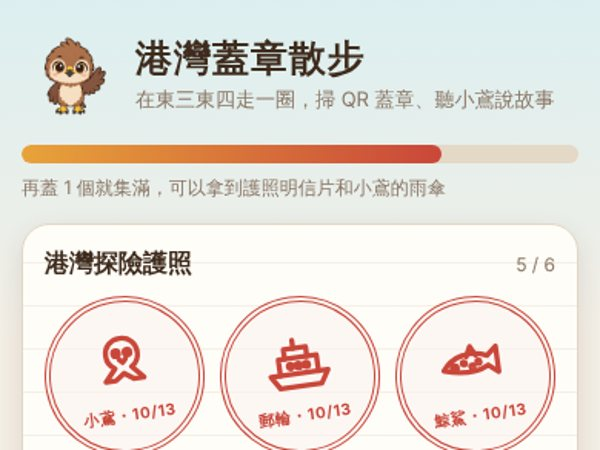
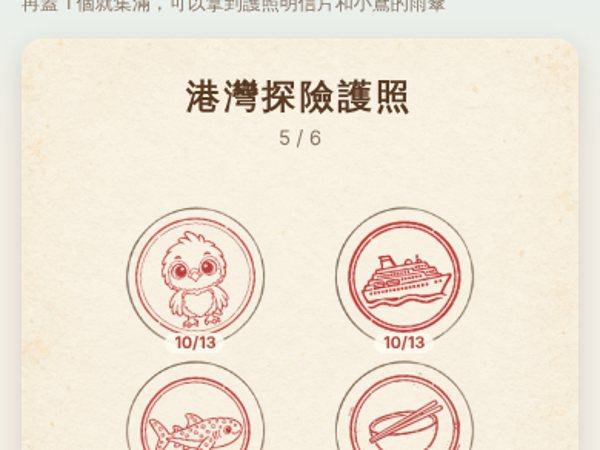
港灣蓋章散步 v0.2：換上 G-49 六個章與護照頁（照圓框 JSON 對位）；測試首頁 v24 (#49)
Claude-Session: https://claude.ai/code/session_01HH7aCh2DkeBgrqbKrCUAfc

diff --git a/stamp/index.html b/stamp/index.html
@@ -22,6 +22,18 @@ header p{margin:2px 0 0;font-size:13px;color:var(--muted)}
 .book h2{margin:0 0 10px;font-size:16px;display:flex;justify-content:space-between;align-items:baseline}
 .book h2 small{font-size:12px;color:var(--muted);font-weight:400}
 .grid{display:grid;grid-template-columns:repeat(3,1fr);gap:10px}
+/* v0.2：護照頁換上 G-49 底圖（1080×1350），六個章照圓框位置 JSON 對位（2 欄 × 3 列） */
+.passport{position:relative;width:100%;aspect-ratio:1080/1350;background:url(assets/passport_page.jpg) center/100% 100%;border-radius:14px;box-shadow:0 6px 18px rgba(62,43,29,.15);overflow:hidden}
+.passport .ttl{position:absolute;left:0;right:0;top:5%;text-align:center}
+.passport .ttl b{display:block;font-size:22px;letter-spacing:.12em;color:#5A3A24}
+.passport .ttl span{font-size:13px;color:#8A7565}
+.pcell{position:absolute;transform:translate(-50%,-50%);border:0;background:none;padding:0;font:inherit;border-radius:50%;display:flex;flex-direction:column;align-items:center;justify-content:center;color:#A08A72}
+.pcell img{width:100%;height:100%;object-fit:contain;transform:rotate(-8deg);mix-blend-mode:multiply}
+.pcell .n{font-size:26px;font-weight:700;color:#C8B79F;line-height:1}
+.pcell small{font-size:11px;line-height:1.35;text-align:center;padding:0 12%;margin-top:4px}
+.pcell .dt{position:absolute;bottom:-4%;font-size:10.5px;font-weight:700;color:#B4483C;background:rgba(255,250,240,.85);border-radius:999px;padding:0 6px}
+.passport .foot{position:absolute;left:0;right:0;bottom:3.2%;text-align:center;font-size:12px;color:#8A7565}
+.big img{width:100%;height:100%;object-fit:contain;animation:slam .45s cubic-bezier(.3,1.6,.6,1) both}
 .cell{border:0;background:none;font:inherit;padding:0;display:flex;flex-direction:column;align-items:center;gap:4px;color:var(--ink)}
 .slot{width:100%;aspect-ratio:1;border-radius:50%;border:2.5px dashed #CDBDA6;display:flex;align-items:center;justify-content:center;position:relative;background:rgba(255,255,255,.5)}
 .slot .n{font-size:22px;font-weight:700;color:#CDBDA6}
@@ -68,9 +80,10 @@ summary{font-weight:700;font-size:14px;cursor:pointer}
     <div class="bar"><i id="prog" style="width:0"></i></div>
     <p class="note" id="progTxt" style="margin-top:6px"></p>
   </div>
-  <section class="book">
-    <h2>港灣探險護照 <small id="count"></small></h2>
-    <div class="grid" id="grid"></div>
+  <section class="passport" id="passport">
+    <div class="ttl"><b>港灣探險護照</b><span id="count"></span></div>
+    <div id="grid"></div>
+    <div class="foot">點蓋好的章，可以再聽一次小鳶的故事</div>
   </section>
   <div class="reward" id="reward" hidden></div>
   <a class="btn light" href="../travel/" id="toTravel">回小鳶的小屋</a>
@@ -82,7 +95,8 @@ summary{font-weight:700;font-size:14px;cursor:pointer}
 </div>
 <div class="ov" id="ov" hidden><div class="sheet" id="sheet"></div></div>
 <script>
-const CFG = { version: '0.1', key: 'kiteStamp1' };
+const CFG = { version: '0.2', key: 'kiteStamp1' };
+const FRAMES = [[31.2037, 34.1481], [68.7037, 34.1481], [31.2037, 56.2222], [68.7037, 56.1852], [31.1574, 78.2593], [68.7037, 78.2963]], FRAME_R = 12.45;      // G-49 護照頁圓框中心（%）與半徑（佔寬度 %）
 /* 6 個蓋章點（工作單 11 v4 第三節；實際位置待 Dari 現勘）。小鳶的話照 D42：4 到 7 歲小小孩的語氣 */
 const SPOTS = [
   { id: 1, name: '小鳶', hint: '旅客服務中心入口的小鳶', icon: 'kite', lines: ['我第一次飛來這裡的時候，好緊張喔！', '後來發現大家都好親切。', '歡迎你也來玩～'] },
@@ -106,11 +120,12 @@ let P = load();
 const save = () => { try { localStorage.setItem(CFG.key, JSON.stringify(P)); } catch (e) {} };
 const n = () => Object.keys(P.spots).length;
 const fmt = (ms) => { const d = new Date(ms); return (d.getMonth() + 1) + '/' + d.getDate(); };
+function stampImg(s) { return '<img src="assets/stamp_' + s.icon + '.png" alt="' + s.name + '章">'; }      // v0.2：G-49 正式章（暫用）
 function stampHTML(s, withDate) { return '<div class="stamp"><svg viewBox="0 0 24 24" fill="none" stroke="currentColor" stroke-width="1.6" stroke-linecap="round" stroke-linejoin="round">' + ICON[s.icon] + '</svg><span>' + s.name + (withDate && P.spots[s.id] ? '・' + fmt(P.spots[s.id]) : '') + '</span></div>'; }
 function render() {
   $('ver').textContent = 'v' + CFG.version;
-  $('grid').innerHTML = SPOTS.map((s) => { const done = !!P.spots[s.id]; return '<button class="cell" type="button" data-id="' + s.id + '"><span class="slot' + (done ? ' done' : '') + '">' + (done ? stampHTML(s, true) : '<span class="n">' + s.id + '</span>') + '</span><b>' + (done ? s.name : '還沒蓋') + '</b><small>' + (done ? '點一下再聽一次' : '在' + s.hint) + '</small></button>'; }).join('');
-  $('grid').querySelectorAll('.cell').forEach((b) => (b.onclick = () => { const s = SPOTS.find((x) => x.id === +b.dataset.id); if (P.spots[s.id]) showStory(s, false); }));
+  $('grid').innerHTML = SPOTS.map((s, i) => { const done = !!P.spots[s.id], [x, y] = FRAMES[i], d = FRAME_R * 2 * 1.02; return '<button class="pcell" type="button" data-id="' + s.id + '" style="left:' + x + '%;top:' + y + '%;width:' + d + '%;aspect-ratio:1" aria-label="' + (done ? s.name + '章' : '第 ' + s.id + ' 點，還沒蓋') + '">' + (done ? stampImg(s) + '<span class="dt">' + fmt(P.spots[s.id]) + '</span>' : '<span class="n">' + s.id + '</span><small>' + s.hint + '</small>') + '</button>'; }).join('');
+  $('grid').querySelectorAll('.pcell').forEach((b) => (b.onclick = () => { const s = SPOTS.find((x) => x.id === +b.dataset.id); if (P.spots[s.id]) showStory(s, false); }));
   $('count').textContent = n() + ' / 6'; $('prog').style.width = (n() / 6 * 100) + '%';
   $('progTxt').textContent = n() === 6 ? '6 個章都蓋好了！' : '再蓋 ' + (6 - n()) + ' 個就集滿，可以拿到護照明信片和小鳶的雨傘';
   const r = $('reward'); r.hidden = !P.complete;
@@ -126,7 +141,7 @@ function scan(id) {
   showStory(s, first);
 }
 function showStory(s, first) {
-  $('sheet').innerHTML = '<div class="big">' + stampHTML(s, false) + '</div><h3>' + (first ? '蓋到「' + s.name + '」章了！' : '這個章已經收下囉') + '</h3>' +
+  $('sheet').innerHTML = '<div class="big">' + stampImg(s) + '</div><h3>' + (first ? '蓋到「' + s.name + '」章了！' : '這個章已經收下囉') + '</h3>' +
     '<div class="say"><img src="../travel/assets/' + (first ? 'kite_happy' : 'kite_home') + '.png" alt=""><p>' + s.lines.join('<br>') + '</p></div>' +
     (s.rec ? '<div class="rec">' + s.rec + '</div>' : '') +
     '<p class="again">' + (n() < 6 ? '還差 ' + (6 - n()) + ' 個：' + SPOTS.filter((x) => !P.spots[x.id]).map((x) => x.hint).join('、') : '6 個都蓋好了！') + '</p>' +

diff --git a/hub/index.html b/hub/index.html
@@ -50,7 +50,7 @@ a:focus-visible,button:focus-visible,summary:focus-visible{outline:3px solid var
 <body>
 <main class="phone">
   <header class="top">
-    <div><h1>小鳶來港</h1><p>測試首頁 v23・點圖片就能玩・素材都是暫用</p></div>
+    <div><h1>小鳶來港</h1><p>測試首頁 v24・點圖片就能玩・素材都是暫用</p></div>
     <img src="../travel/assets/kite_wave.png" alt="">
   </header>
 
@@ -83,7 +83,7 @@ a:focus-visible,button:focus-visible,summary:focus-visible{outline:3px solid var
   </a>
 
   <a class="card" data-href="stamp/">
-    <span class="img" style="background-image:url(thumbs/stamp.jpg)"></span><span class="ver">蓋章 v0.1</span>
+    <span class="img" style="background-image:url(thumbs/stamp.jpg)"></span><span class="ver">蓋章 v0.2</span>
     <span class="cap"><span class="txt"><b class="h">港灣蓋章散步</b><span class="sub">現場掃 QR 蓋章，集滿拿雨傘</span></span><span class="play">蓋</span></span>
   </a>
 
